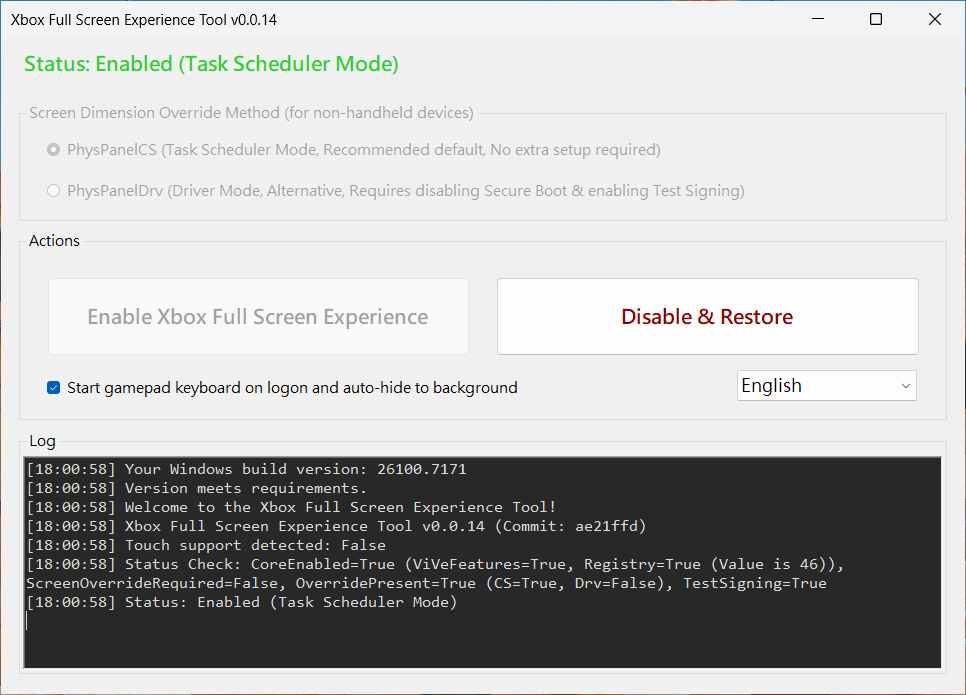
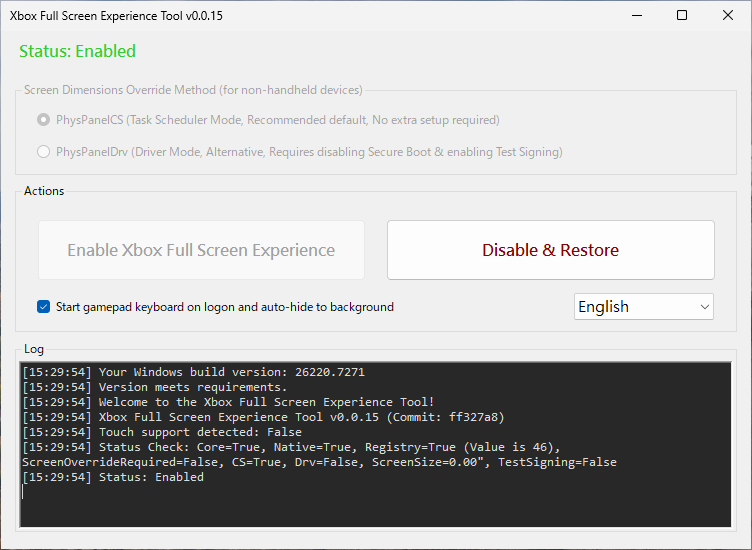
chore: Bump version to 0.0.15 and refresh documentation assets
- Updated the main application and installer version to 0.0.15.
- Bumped the version for the `PhysPanelLib` library and the native `PhysPanelCPP` utility to 0.0.11.
- Refreshed demo screenshots and adjusted their display width to 550px in the README files.
- Updated the issue template with corrected text and added `v0.0.15` to the version dropdown list.

diff --git a/README.zh-TW.md b/README.zh-TW.md
@@ -7,7 +7,7 @@
 </p>
 
 <p align="center">
-<img src="demo.zh-TW.png" alt="Xbox 全螢幕體驗工具展示" style="width: 521px; object-fit: contain; display: block; margin: 0 auto;">
+<img src="demo.zh-TW.png" alt="Xbox 全螢幕體驗工具展示" style="width: 550px; object-fit: contain; display: block; margin: 0 auto;">
 </p>
 
 <p align="center">

diff --git a/README.md b/README.md
@@ -7,7 +7,7 @@
 </p>
 
 <p align="center">
-<img src="demo.png" alt="Xbox Full Screen Experience Tool Demo" style="width: 521px; object-fit: contain; display: block; margin: 0 auto;">
+<img src="demo.png" alt="Xbox Full Screen Experience Tool Demo" style="width: 550px; object-fit: contain; display: block; margin: 0 auto;">
 </p>
 
 <p align="center">
